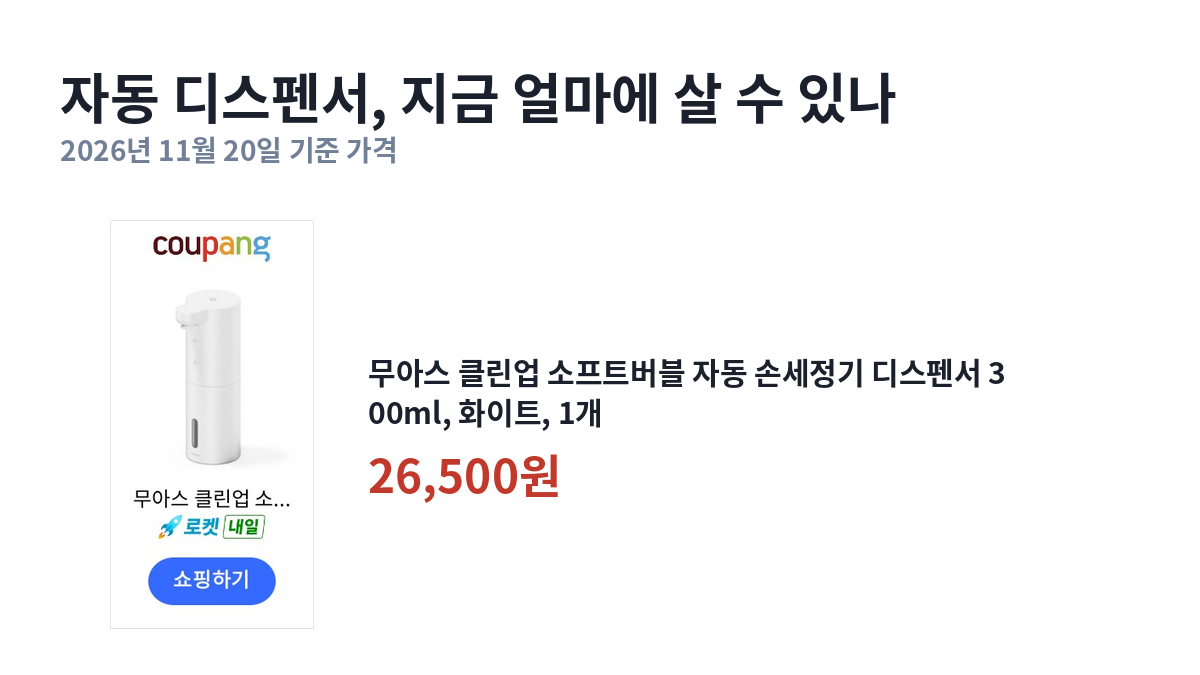
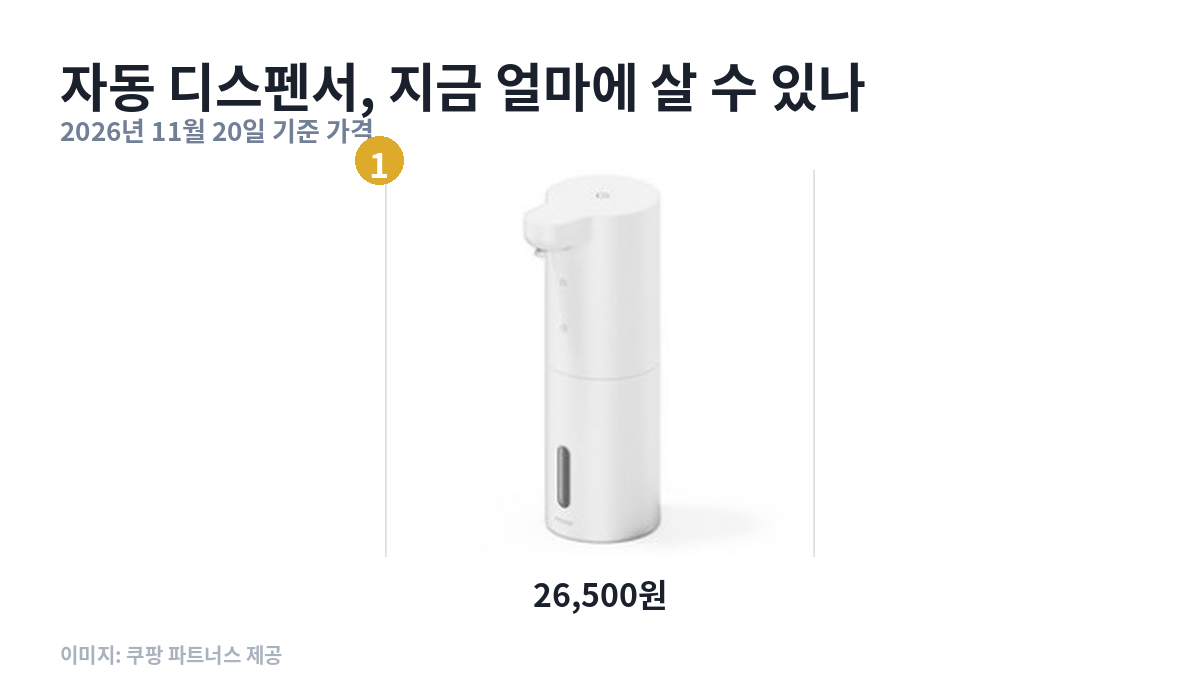
대표 이미지를 시상대 구성으로 — 배너에서 상품 사진만 떼어 1위를 가운데 크게
사용자 지시(11/20): "상품 사진만 빼서 세 개의 상품 사진이 중앙 좌우로
마치 순위 경쟁을 하는 듯하게"

파트너스 배너(240x480)는 구조가 일정하다. 세로 비율로 재면
  0.00~0.11 쿠팡 로고 / 0.12~0.16 여백 / 0.165~0.615 상품 사진
  0.62 여백 / 0.63~0.80 상품명·배지 / 0.82~0.95 쇼핑하기 버튼
배너 3종을 실측해 셋 다 같은 자리였다. 그 구간만 떼고 둘레의 흰 여백을 더 잘라낸다.

배치: 가운데 1위(최대 400x400) · 왼쪽 2위 · 오른쪽 3위(각 290x265).
금·은·동 색 순위 뱃지와 가격을 달고, 떼어 쓴 사진이므로
"이미지: 쿠팡 파트너스 제공" 을 왼쪽 아래에 남긴다
(오른쪽에 두면 3위 가격과 겹친다 — 11/20 실측).

Claude-Session: https://claude.ai/code/session_011yCp6J6rwZWhFQvanGirwe

diff --git a/scripts/make_featured.py b/scripts/make_featured.py
@@ -121,6 +121,80 @@ def compose(title, shots, sub, lines_right=None):
     return img
 
 
+# 2026-11-20 사용자 지시: "상품 사진만 빼서 세 개의 상품 사진이 중앙 좌우로
+# 마치 순위 경쟁을 하는 듯하게".
+# 파트너스 배너(240x480)는 구조가 일정하다. 세로 비율로 재면
+#   0.00~0.11 쿠팡 로고 / 0.12~0.16 여백 / **0.165~0.615 상품 사진**
+#   0.62 여백 / 0.63~0.80 상품명·배지 / 0.82~0.95 쇼핑하기 버튼
+# 배너 3종을 재서 셋 다 같은 자리였다(11/20 실측). 그 구간만 떼어 쓴다.
+# 뗀 사진은 쿠팡이 파트너스 소재로 내준 것이므로 출처를 이미지 안에 적는다.
+SHOT_TOP, SHOT_BOT = 0.165, 0.615
+
+
+def crop_shot(im):
+    """배너에서 상품 사진 영역만 떼고, 둘레의 흰 여백을 잘라낸다."""
+    w, h = im.size
+    box = im.crop((0, int(h * SHOT_TOP), w, int(h * SHOT_BOT)))
+    try:
+        import numpy as np
+        a = np.asarray(box.convert("L"), dtype=float)
+        ys, xs = np.where(a < 243)
+        if len(ys) > 50:
+            m = 4
+            box = box.crop((max(0, xs.min() - m), max(0, ys.min() - m),
+                            min(box.width, xs.max() + m), min(box.height, ys.max() + m)))
+    except Exception:
+        pass
+    return box
+
+
+def podium(title, shots, sub, labels):
+    """1위를 가운데 높은 자리에, 2·3위를 좌우 낮은 자리에. 순위 경쟁처럼 보이게."""
+    img = Image.new("RGB", (W, H), BG)
+    d = ImageDraw.Draw(img)
+    ft, fs, fr, fp = font(52), font(26), font(34), font(32)
+    for i, ln in enumerate(wrap(d, title, ft, W - 120, lines=1)):
+        d.text((60, 46), ln, font=ft, fill=INK)
+    if sub:
+        d.text((60, 110), sub, font=fs, fill=SUB)
+
+    base = H - 118                     # 사진이 서는 바닥선(아래에 가격·출처 자리를 둔다)
+    # 1위가 한눈에 커 보여야 순위로 읽힌다. 가운데를 크게, 좌우를 작게.
+    # (가로중심, 최대높이, 최대너비)
+    order = [1, 0, 2][:len(shots)]     # 왼쪽 2위 · 가운데 1위 · 오른쪽 3위
+    slots = [(200, 265, 290), (610, 400, 400), (1010, 265, 290)][:len(shots)]
+    if len(shots) == 1:
+        order, slots = [0], [(600, 400, 430)]
+    elif len(shots) == 2:
+        order, slots = [0, 1], [(420, 400, 400), (830, 290, 310)]
+
+    rank_bg = [(222, 170, 44), (160, 170, 182), (176, 131, 94)]
+    for pos, idx in enumerate(order):
+        if idx >= len(shots):
+            continue
+        im = shots[idx]
+        cx, maxh, maxw = slots[pos]
+        s = min(maxw / im.width, maxh / im.height)
+        w2, h2 = int(im.width * s), int(im.height * s)
+        y0 = base - h2
+        img.paste(im.resize((w2, h2), Image.LANCZOS), (cx - w2 // 2, y0))
+        # 순위 뱃지
+        r = 24
+        bx, by = cx - w2 // 2 - 6, y0 - 10
+        d.ellipse([bx - r, by - r, bx + r, by + r], fill=rank_bg[min(idx, 2)])
+        n = str(idx + 1)
+        tw = d.textlength(n, font=fr)
+        d.text((bx - tw / 2, by - 22), n, font=fr, fill=(255, 255, 255))
+        if idx < len(labels) and labels[idx]:
+            lw = d.textlength(labels[idx], font=fp)
+            d.text((cx - lw / 2, base + 12), labels[idx], font=fp,
+                   fill=INK if idx == 0 else SUB)
+    # 출처는 왼쪽 아래에. 오른쪽에 두면 3위 가격과 겹친다(11/20 실측).
+    fsrc = font(20)
+    d.text((60, H - 36), "이미지: 쿠팡 파트너스 제공", font=fsrc, fill=(170, 178, 189))
+    return img
+
+
 def resolve(entry):
     out = dict(entry)
     k = entry.get("product_key")
@@ -151,25 +225,25 @@ def main():
             if not e.get("image"):
                 need_link.append((disp, e.get("name") or "(이름 없음)"))
 
-        shots = [s for s in (fetch(e["image"]) for e in top3 if e.get("image")) if s]
-        if not shots:
+        withimg = [e for e in top3 if e.get("image")]
+        raw = [(e, fetch(e["image"])) for e in withimg]
+        pairs = [(e, crop_shot(im)) for e, im in raw if im]
+        if not pairs:
             print(f"  ✗ {disp}: 쓸 수 있는 상품 사진이 하나도 없다 — 대표 이미지를 만들지 않는다")
             continue
         today = dt.date.today()
         asof = f"{today.year}년 {today.month}월 {today.day}일 기준 가격"
+        shots = [im for _, im in pairs]
+        labels = [(f"{int(e['price']):,}원" if e.get("price") else "") for e, _ in pairs]
 
-        head = next((e for e in top3 if e.get("image")), {})
-        right = [head.get("name") or ""]
-        if head.get("price"):
-            right.append(f"{int(head['price']):,}원")
         p1 = os.path.join(OUT, base + ".png")
-        compose(f"{disp}, 지금 얼마에 살 수 있나", shots[:1], asof, right).save(p1)
+        podium(f"{disp}, 지금 얼마에 살 수 있나", shots[:1], asof, labels[:1]).save(p1)
         made.append((base, p1))
         print(f"  ✓ {p1}  (상품 사진 1장)")
 
         if len(shots) >= 2:
             p2 = os.path.join(OUT, base + "-top3.png")
-            compose(f"{disp} 톱3 비교", shots[:3], asof).save(p2)
+            podium(f"{disp} 톱3 비교", shots[:3], asof, labels[:3]).save(p2)
             made.append((base + "-top3", p2))
             print(f"  ✓ {p2}  (상품 사진 {len(shots[:3])}장)")
 
